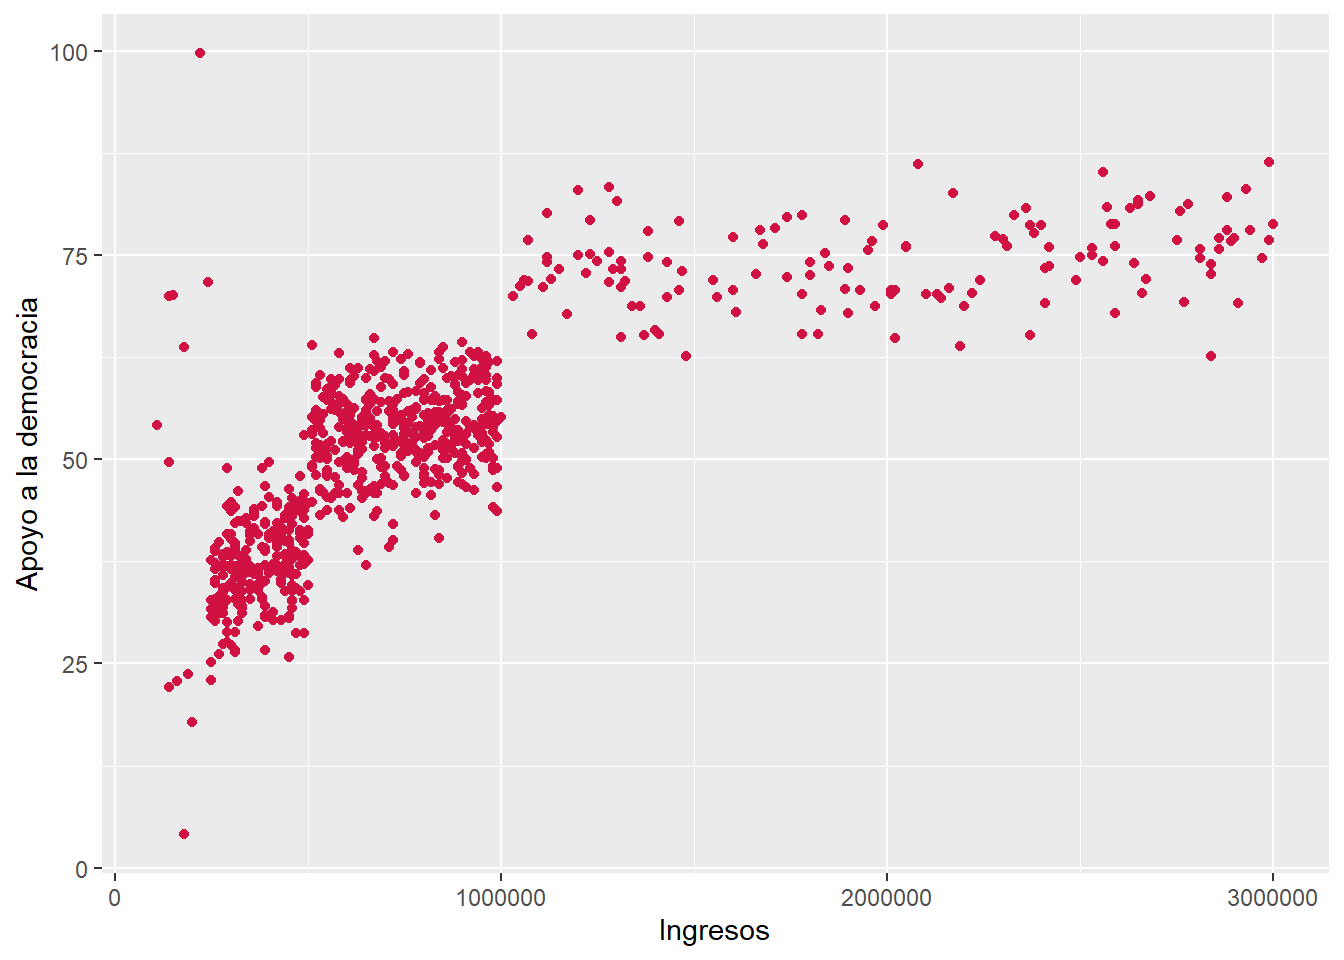
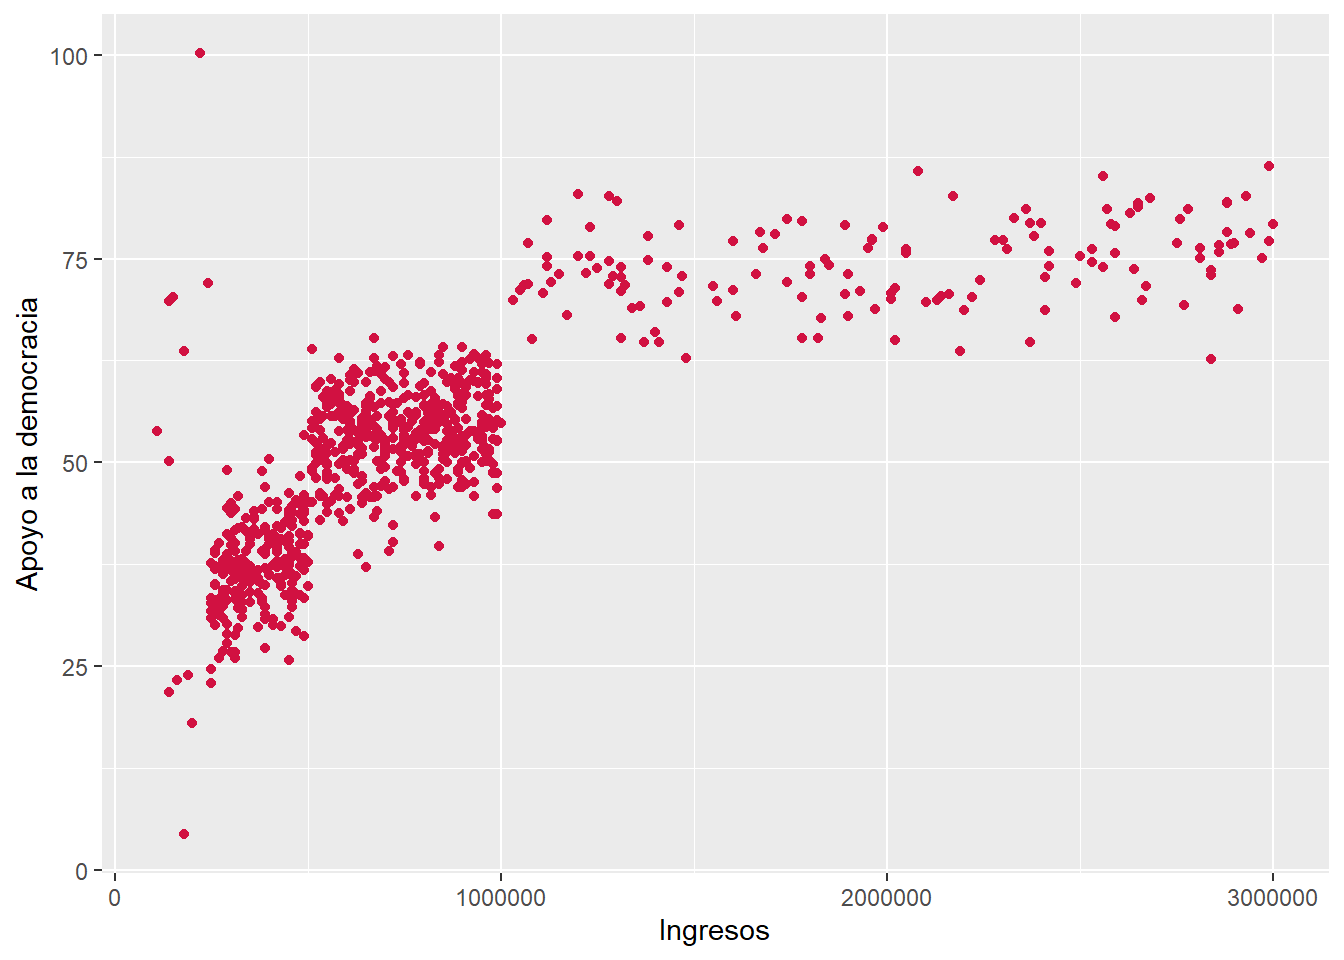
cambio render

diff --git a/ayudantia2.html b/ayudantia2.html
@@ -298,7 +298,7 @@ Figure&nbsp;1: tabla de correlaciones
 <span id="cb7-3"><a href="#cb7-3" aria-hidden="true" tabindex="-1"></a>                 <span class="at">triangle =</span> <span class="st">"lower"</span>)   </span>
 <span id="cb7-4"><a href="#cb7-4" aria-hidden="true" tabindex="-1"></a></span>
 <span id="cb7-5"><a href="#cb7-5" aria-hidden="true" tabindex="-1"></a>sjPlot<span class="sc">::</span><span class="fu">tab_corr</span>(data,</span>
-<span id="cb7-6"><a href="#cb7-6" aria-hidden="true" tabindex="-1"></a>                 <span class="at">na.deletion =</span> <span class="st">"listwise"</span>, <span class="co"># espeficicamos tratamiento NA</span></span>
+<span id="cb7-6"><a href="#cb7-6" aria-hidden="true" tabindex="-1"></a>                 <span class="at">na.deletion =</span> <span class="st">"listwise"</span>, <span class="co"># especificamos tratamiento NA</span></span>
 <span id="cb7-7"><a href="#cb7-7" aria-hidden="true" tabindex="-1"></a>                 <span class="at">triangle =</span> <span class="st">"lower"</span>)   </span></code></pre></div><button title="Copy to Clipboard" class="code-copy-button"><i class="bi"></i></button></div>
 </div>
 <ul>
